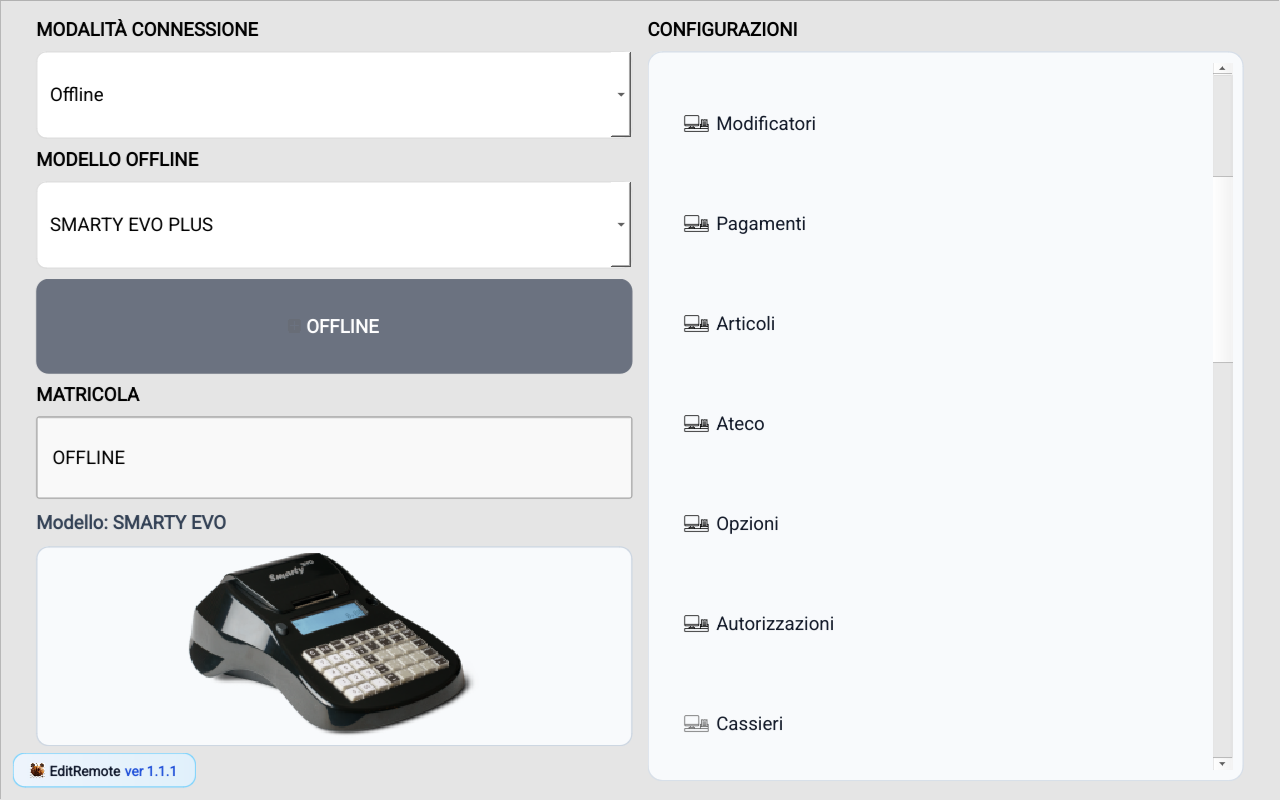
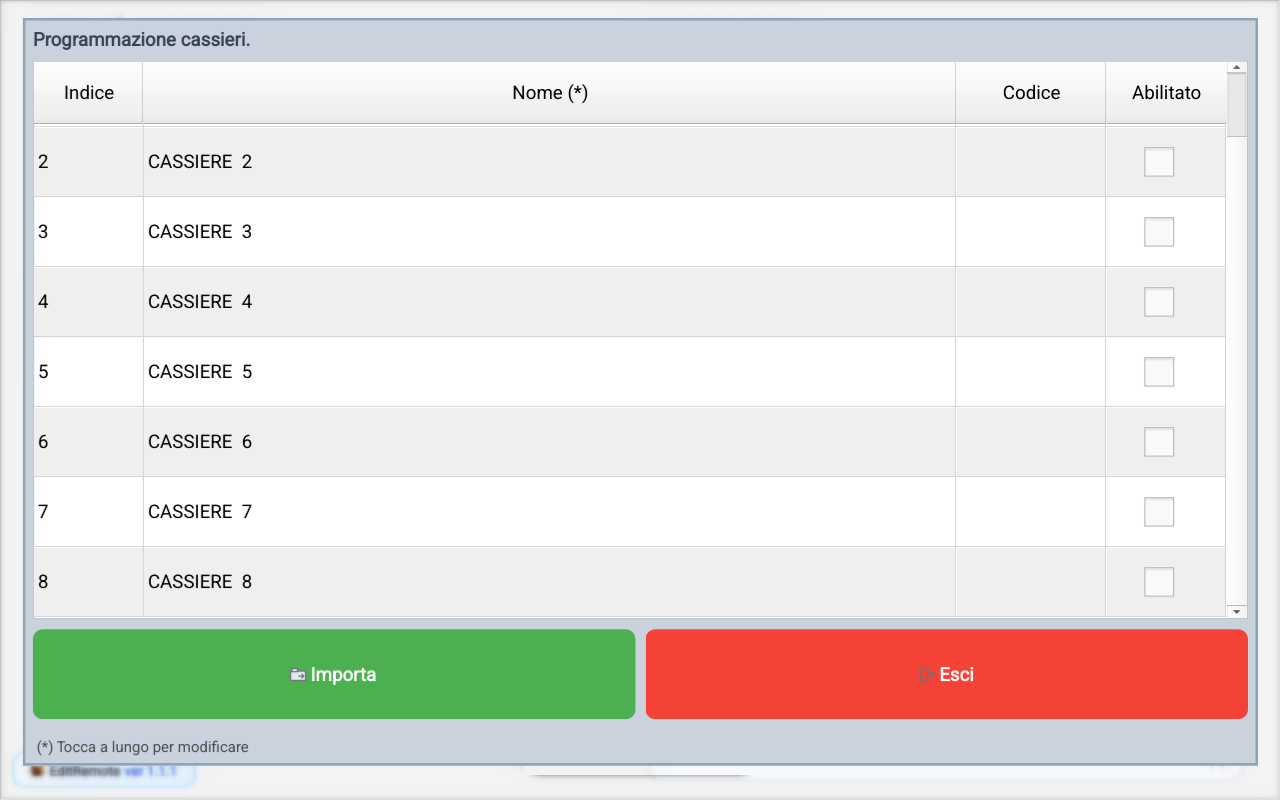
Aggiorna guida Cassieri: pulizia testo, significato campi e nuovo screenshot

diff --git a/impostazioni_cassieri.html b/impostazioni_cassieri.html
@@ -230,7 +230,8 @@
     </div>
 
     <section class="section">
-      <div class="row"><div class="col-12"><div class="card"><div class="card-body">`r`n          <h5 class="card-title">Guida operativa</h5>
+      <div class="row"><div class="col-12"><div class="card"><div class="card-body">
+          <h5 class="card-title">Guida operativa</h5>
         
           <p>
             Questa programmazione equivale al comando <strong>808 MENU</strong> sul registratore RT.
@@ -246,6 +247,15 @@
           <li>Applica solo le modifiche necessarie.</li>
           <li>Salva e verifica l'esito operativo.</li>
         </ol>
+
+        <h6>Significato campi</h6>
+        <ul>
+          <li><strong>Indice</strong>: numero progressivo del cassiere.</li>
+          <li><strong>Descrizione</strong>: nome identificativo del cassiere in vendita e report.</li>
+          <li><strong>Codice</strong>: codice operativo/PIN usato per selezionare o autenticare il cassiere.</li>
+          <li><strong>Abilitato</strong>: se attivo, il cassiere puo' operare; se disattivo resta in archivio ma non e' utilizzabile.</li>
+        </ul>
+
         <h6>Controlli finali consigliati</h6>
         <ul>
           <li>Conferma su cassa dei valori programmati.</li>
